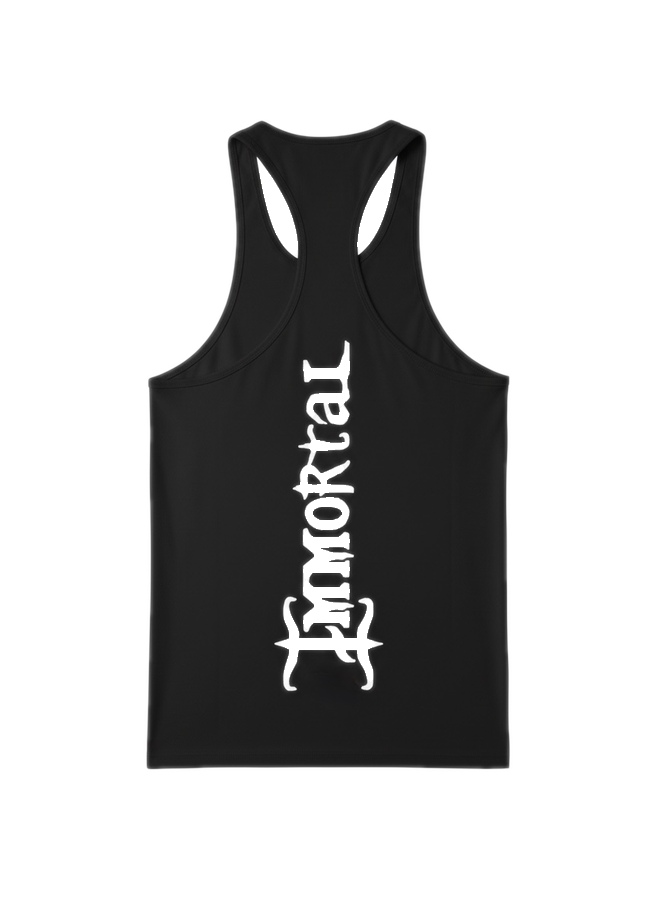
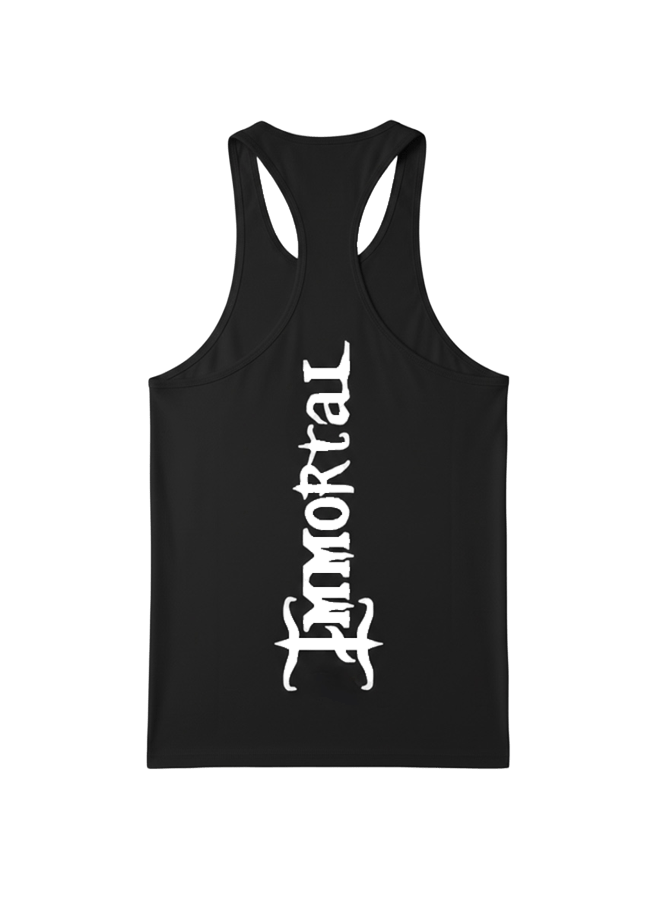
fix(home): remove hero headline; update racer tank product photo
Remove the "Rise Beyond the Mortal Plane" hero headline element from the
homepage per owner request. The Enter the Missions CTA and hero layout
are unchanged — the existing centered flex container already balances a
single child without the headline.

Also swap the racerback tanktop product sprite for an updated back-view
photo (same filename/format/dimensions: RGBA PNG, 657x900), so existing
data references in shop.ts and shop/+page.svelte keep working unchanged.

diff --git a/web/src/lib/components/HeroScene.svelte b/web/src/lib/components/HeroScene.svelte
@@ -290,7 +290,6 @@
 {#if showHero}
 <!-- UI overlay — stays fixed, never spins -->
 <div class="hero">
-  <h1 class="hero__headline">Rise Beyond<br>the Mortal Plane</h1>
   <a href="/shop" class="hero__cta">Enter the Missions →</a>
 </div>
 
@@ -341,19 +340,6 @@
     pointer-events: none;
   }
 
-  .hero__headline {
-    font-family: 'GodOfWar', 'Gods of War', serif;
-    font-weight: 200;
-    font-size: clamp(2.25rem, 6.2vw, 5.25rem);
-    line-height: 1.04; letter-spacing: 0.12em;
-    text-align: center; text-transform: uppercase;
-    color: rgba(240,237,230,0.96);
-    text-shadow: 0 0 80px rgba(240,237,230,0.14), 0 0 160px rgba(240,237,230,0.05);
-    max-width: 22ch;
-    opacity: 0;
-    animation: fadeUp 2.8s cubic-bezier(0.16,1,0.3,1) 0.8s forwards;
-  }
-
   .hero__cta {
     display: inline-block;
     border: 1px solid rgba(240,237,230,0.3);
@@ -393,19 +379,14 @@
     50%      { border-bottom-color: rgba(200,146,42,0.72); }
   }
   @keyframes fadeIn { from{opacity:0} to{opacity:1} }
-  @keyframes fadeUp {
-    from { opacity:0; transform:translateY(16px); }
-    to   { opacity:1; transform:translateY(0); }
-  }
 
   @media (prefers-reduced-motion: reduce) {
     .mw-photo { animation: none; opacity: 0.86; }
     .hero-canvas { animation: none; }
-    .hero__headline, .hero__cta, .stamp { animation: none; opacity: 1; transform: none; }
+    .hero__cta, .stamp { animation: none; opacity: 1; transform: none; }
   }
 
   @media (max-width: 640px) {
-    .hero__headline { letter-spacing: 0.08em; }
     /* Shorter mobile nav+banner — anchor the centered area to clear it. */
     .hero { gap: 1.75rem; top: 6.5rem; }
   }
